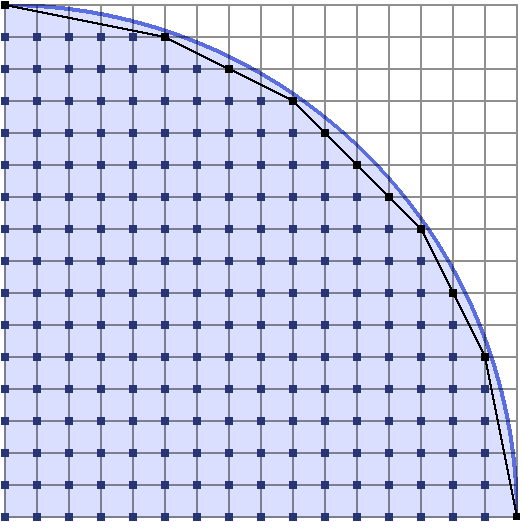
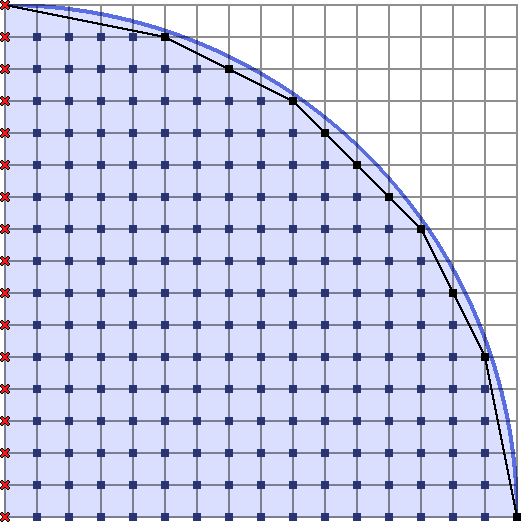
some words

diff --git a/wip5.md b/wip5.md
@@ -83,18 +83,28 @@ But if we want to push it to something like $n = 10^{24}$, which is more around 
 
 ### Bigger Integers
 
-Oh, right, so the thing is, we want to have our inputs and outputs much larger than $10^{19}$ which is roughly the limit of a 64-bit signed integer. If you're doing this in something like Python where bigger integers are handled for you automatically then skip this section I guess.
+Oh, right, so the thing is, we want to have our inputs and outputs much larger than $10^{19}$ which is roughly the limit of a 64-bit signed integer. If you're doing this in something like Python where bigger integers are handled for you automatically then you don't really have to worry about this.
 
 The language I've been using so far, Nim, does not have a built in BigInt or Int128 type, which is what we'd love to be using for this. Because of that, we need to find a third party solution, or implement our own. Given that this article isn't about how to implement fast bigger integer data types, we would opt for something third party. What I found works best is [nint128][nint128], which is a package I use in my own Project Euler library. So, if you're using Nim and want to run these functions for the large inputs they're really built for, you can modify the code that is to follow so that it uses whatever package you choose.
 
 ## Convex Hulls
 
-Let's look at the set of integer points in a non-negative quarter circle.
+The idea that I'll be explaining in this post is something I've seen variously attributed to [Animus][animus] in a Project Euler problem thread, who attributes the idea to Lucy_Hedgehog. If you've solved the relevant problem then the link will work for you and lead you to Animus's post. 
+
+One of the better publicly available explanations of the following algorithm was written up by none other than [Min_25][min25], now living on the [Internet Archive][iarch]. I find that a lot of the minor details that I needed explained were basically left out of most writeups of this idea online, which made it somewhat difficult for me to realize why it actually worked. I do think the tricks that it uses are very natural, but for whatever reason it just hasn't clicked very well in my head. So, finally, I've taken the time to actually attempt to explain to myself (and you) how to do it.
+
+Returning now to thinking about counting the lattice points within a circle, our first thought should be to reduce the amount of work we have to do by using the symmetry of the circle.  
+Specifically, we can chop a circle up like this:
+
+<center><img src="/blog/docs/assets/images/wip/circ_quadrants.png"></center>
+<br>
+
+Therefore, if we count the points in the quadrant $x > 0$ and $y \geq 0$ as the quantity $L$, then the number of lattice points in the entire circle is just $4L + 1$. Let's look at the set of integer points in this quadrant:
 
 <center><img src="/blog/docs/assets/images/wip/circ_points.png"></center>
 <br>
 
-I've also decided to attach a black rubber band at the top left and bottom right points, and then allowed it to stretch tightly over the lattice points inside the circle. The polygon formed by the points touching this rubber band is known as the convex hull of the points inside the circle. The remainder of this article is about how we can exploit these convex hulls to count the lattice points inside a shape like this.
+I've also decided to attach a black rubber band at the top left and bottom right points, and then allowed it to stretch tightly over the lattice points inside the circle. The polygon formed by the points touching this rubber band is known as the convex hull of the lattice points inside the circle. The remainder of this article is about how we can exploit these convex hulls to count the lattice points inside a shape like this.
 
 Let's first pretend that we have a way to obtain the points on the convex hull extremely quickly, and see how it is possible to count the number of lattice points inside the shape.
 
@@ -106,7 +116,7 @@ It could look something like this:
 <center><img src="/blog/docs/assets/images/wip/large_small_circ_trapezoids.png"></center>
 <br>
 
-As I've indicated, the most natural thing to do to this polygon is to break it into trapezoids[^4]. We obviously don't want to be counting any lattice points twice, which would happen where the trapezoids border each other. Therefore we throw out the points on the left boundary of each trapezoid so they can slot together. Because of that, we have to count the points on the $y$-axis separately.
+As I've indicated, the most natural thing to do to this polygon is to break it into trapezoids[^4]. We obviously don't want to be counting any lattice points twice, which would happen where the trapezoids border each other. Therefore we throw out the points on the left boundary of each trapezoid so they can slot together. Because of that, we have to count the points on the $y$-axis separately, if we wish to include them. If you look back at our circle diagrams you'll remember we wanted to leave that axis out of the count from the start, so this is perfect.
 
 The trapezoids that arise in this manner are defined by the upper left convex hull point $(x, y)$, and the vector $(dx, -dy)$ to the next convex hull point.[^5] Given these values, is it easy to count the number of lattice points in the trapezoid?  
 
@@ -141,14 +151,16 @@ Now we are convinced that, given the points of the convex hull of a shape, we ca
 
 ### Wait, a Hyperbola Does Not Make a Convex Set
 
-Oops. Okay, but helpfully, we are allowed to count whatever points we want, so instead we'll count the points outside of the hyperbola. We can rotate everything around like this:
+Oops. Okay, but helpfully, we are allowed to count whatever points we want, so instead we'll pretend we're counting the points outside of the hyperbola. We can rotate everything around like this:
 
 <center><img src="/blog/docs/assets/images/wip/hyperbola_flip.png"></center>
 <br>
 
-For the hyperbola $xy \leq n$, we mapped $(x, y) \to (n-x, n-y)$. It happens that we have a nice convex shape now, except we want to count points above the shape instead of inside the shape.  
-We'll see how to do that later.
+The first thing I want you to notice is that we're now also counting all of the points with $y = 0$, as that's what the trapezoids we wrote already do. We'll deal with that when it's convenient.
 
+For the hyperbola $xy \leq n$, we map $(x, y) \to (n-x, n-y)$. It happens that we have a nice convex shape now, except we want to count points above the shape instead of inside the shape. I've marked those points as the red $\times$ shapes in the second figure above. If we consider the points with $(n-x)(n-y) > n$, we will see we can form a nice convex polygon again, shown on the right in red.  
+
+For each trapezoid, we also get a corresponding anti-trapezoid which sits above it, beginning one unit higher and reaching up to $n$ (which correpsonds to $y = 0$ in the original non rotated universe). We also may end up with one or more coordinates $x$ for which there are no trapezoids or anti-trapezoids, but we still want to count those points. Therefore we'll have to be somewhat careful with our counting later. More on anti-trapezoids later.
 
 ## Finding the Convex Hull
 
@@ -372,8 +384,7 @@ This is the sum $R(n) = \sum_{0 \leq k \leq n} r_2(k)$, if you forgot.
 
 We need to give ``chull`` a decreasing function whose derivative is also decreasing, so it is most natural to operate on the non-negative quarter circle. There is a way to decompose the lattice point count:
 
-<center><img src="/blog/docs/assets/images/wip/circ_quadrants.png"></center>
-<br>
+TODO REPLACE IMAGE
 
 That way, if we compute the number $L$ of lattice points satisfying $x > 0$ and $y \geq 0$, we can get the count in the entire circle by computing $4L+1$. Even better, the way we do trapezoids will exclude the $y$ axis already. There is not much difficulty when it comes to getting the full circle count.
 
@@ -473,6 +484,9 @@ Hi
 [aseprite]: https://www.aseprite.org/
 [cpalg-stern-brocot]: https://cp-algorithms.com/others/stern_brocot_tree_farey_sequences.html
 [adamant-cfrac]: https://cp-algorithms.com/algebra/continued-fractions.html
+[animus]: https://projecteuler.net/action=redirect;post_id=229299
+[min25]: https://web.archive.org/web/20211009144532/https://min-25.hatenablog.com/entry/2018/05/03/145505
+[iarch]: https://archive.org/donate
 
 [^1]: Obviously the reason is that we are using $(x, y)$ as coordinates on a grid, and I would rather avoid the confusion. So from here on, we will be using $n$ as our summation limit, and $k$ as the free variable in the summation. The letters $x, y$ will always be used to refer to some sort of coordinates.
 
